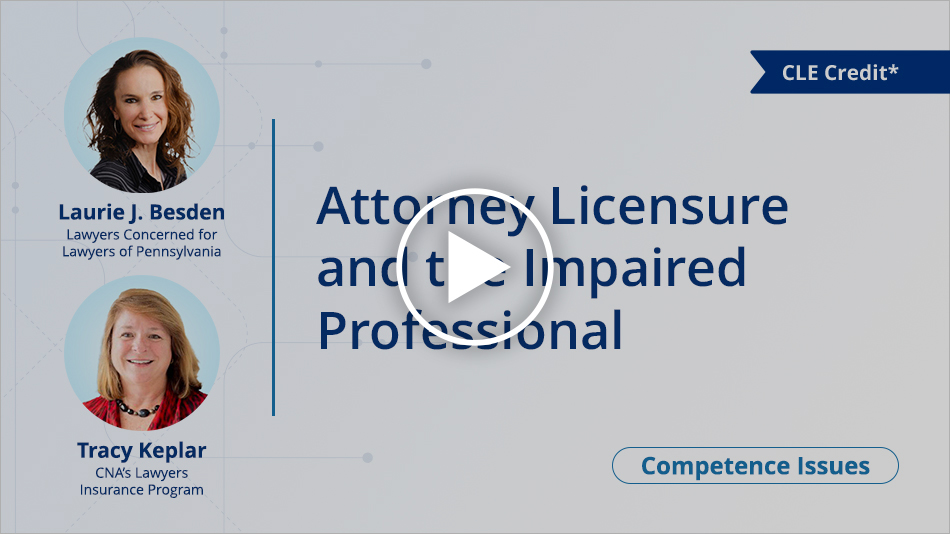
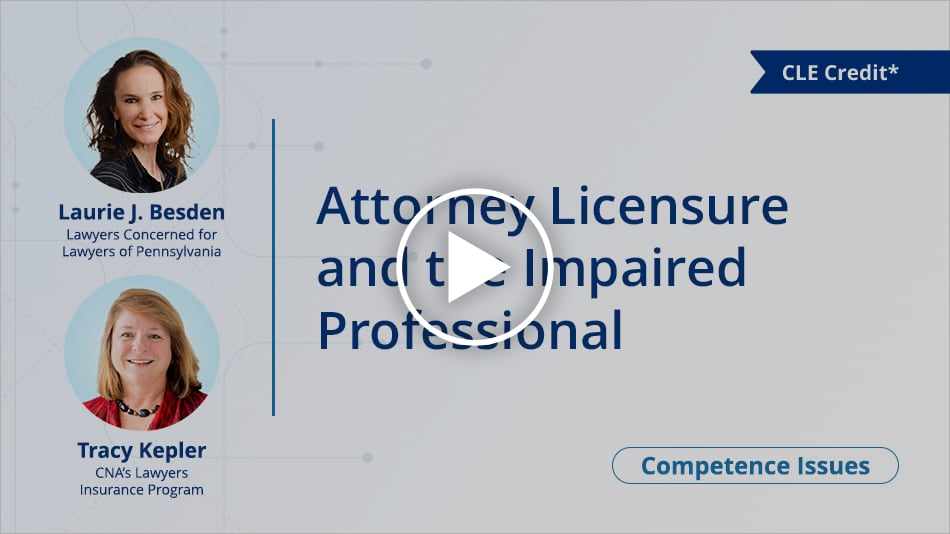
refactor: update images

diff --git a/dist/28-webinar-registration-1.html b/dist/28-webinar-registration-1.html
@@ -148,7 +148,7 @@
           <table border="0" cellpadding="0" cellspacing="0" align="center" width="100%" style="max-width:600px;margin:0 auto" bgcolor="#fff">
             <tr>
               <td class="justia01 justia03" style="padding:50px 0 0" align="center">
-                <a href="https://connect.justia.com/webinars/attorney-licensure-and-the-impaired-professional" target="_blank" style="text-decoration:none;color:#06357a"><img src="https://justatic.com/v/1/emails/images/webinars/2023/12/28-webinar-registration.jpg" alt="Justia Webinar" border="0" style="display:block;max-width:100%" width="540"/></a>
+                <a href="https://connect.justia.com/webinars/attorney-licensure-and-the-impaired-professional" target="_blank" style="text-decoration:none;color:#06357a"><img src="https://justatic.com/v/2/emails/images/webinars/2023/12/28-webinar-registration.jpg" alt="Justia Webinar" border="0" style="display:block;max-width:100%" width="540"/></a>
               </td>
             </tr>
           </table>
@@ -157,7 +157,7 @@
               <td class="justia01 justia04" style="padding:0 30px" align="center">
                 <table class="justia05" style="display:block;border:1px solid #f2f2f2;border-width:0 1px 1px 1px;border-radius:0 0 5px 5px;padding:10px 25px 10px 25px">
                   <tr>
-                    <td class="justia06" width="20" align="center"><img src="https://justatic.com/v/1/emails/images/webinars/2023/12/megaphone-icon.png" alt="megaphone icon" style="display:block;max-width:100%" /></td>
+                    <td class="justia06" width="20" align="center"><img src="https://justatic.com/v/2/emails/images/webinars/2023/12/megaphone-icon.png" alt="megaphone icon" style="display:block;max-width:100%" /></td>
                     <td style="font:16px/1.1 Arial,sans-serif;display:block;margin-left:10px" align="left">
                       <span style="display:inline-block;line-height:1.3"><b>Date:</b> December 11, 2023 </span><span style="display:inline-block;line-height:1.3;margin:0 4px">|</span> <span style="display:inline-block;line-height:1.3"><b>Time:</b> 2:00 pm ET/11:00 am PT</span>
                     </td>

diff --git a/dist/28-webinar-test.html b/dist/28-webinar-test.html
@@ -151,7 +151,7 @@
           <table border="0" cellpadding="0" cellspacing="0" align="center" width="100%" style="max-width:600px;margin:0 auto" bgcolor="#fff">
             <tr>
               <td class="justia01 justia03" style="padding:50px 0 0" align="center">
-                <a href="https://connect.justia.com/webinars/attorney-licensure-and-the-impaired-professional" target="_blank" style="text-decoration:none;color:#06357a"><img src="https://justatic.com/v/1/emails/images/webinars/2023/12/28-webinar-registration.jpg" alt="Justia Webinar" border="0" style="display:block;max-width:100%" width="540"/></a>
+                <a href="https://connect.justia.com/webinars/attorney-licensure-and-the-impaired-professional" target="_blank" style="text-decoration:none;color:#06357a"><img src="https://justatic.com/v/2/emails/images/webinars/2023/12/28-webinar-registration.jpg" alt="Justia Webinar" border="0" style="display:block;max-width:100%" width="540"/></a>
               </td>
             </tr>
           </table>
@@ -160,7 +160,7 @@
               <td class="justia01 justia04" style="padding:0 30px" align="center">
                 <table class="justia05" style="display:block;border:1px solid #f2f2f2;border-width:0 1px 1px 1px;border-radius:0 0 5px 5px;padding:10px 25px 10px 25px">
                   <tr>
-                    <td class="justia06" width="20" align="center"><img src="https://justatic.com/v/1/emails/images/webinars/2023/12/megaphone-icon.png" alt="megaphone icon" style="display:block;max-width:100%" /></td>
+                    <td class="justia06" width="20" align="center"><img src="https://justatic.com/v/2/emails/images/webinars/2023/12/megaphone-icon.png" alt="megaphone icon" style="display:block;max-width:100%" /></td>
                     <td style="font:16px/1.1 Arial,sans-serif;display:block;margin-left:10px" align="left">
                       <span style="display:inline-block;line-height:1.3"><b>Date:</b> December 11, 2023 </span><span style="display:inline-block;line-height:1.3;margin:0 4px">|</span> <span style="display:inline-block;line-height:1.3"><b>Time:</b> 2:00 pm ET/11:00 am PT</span>
                     </td>
